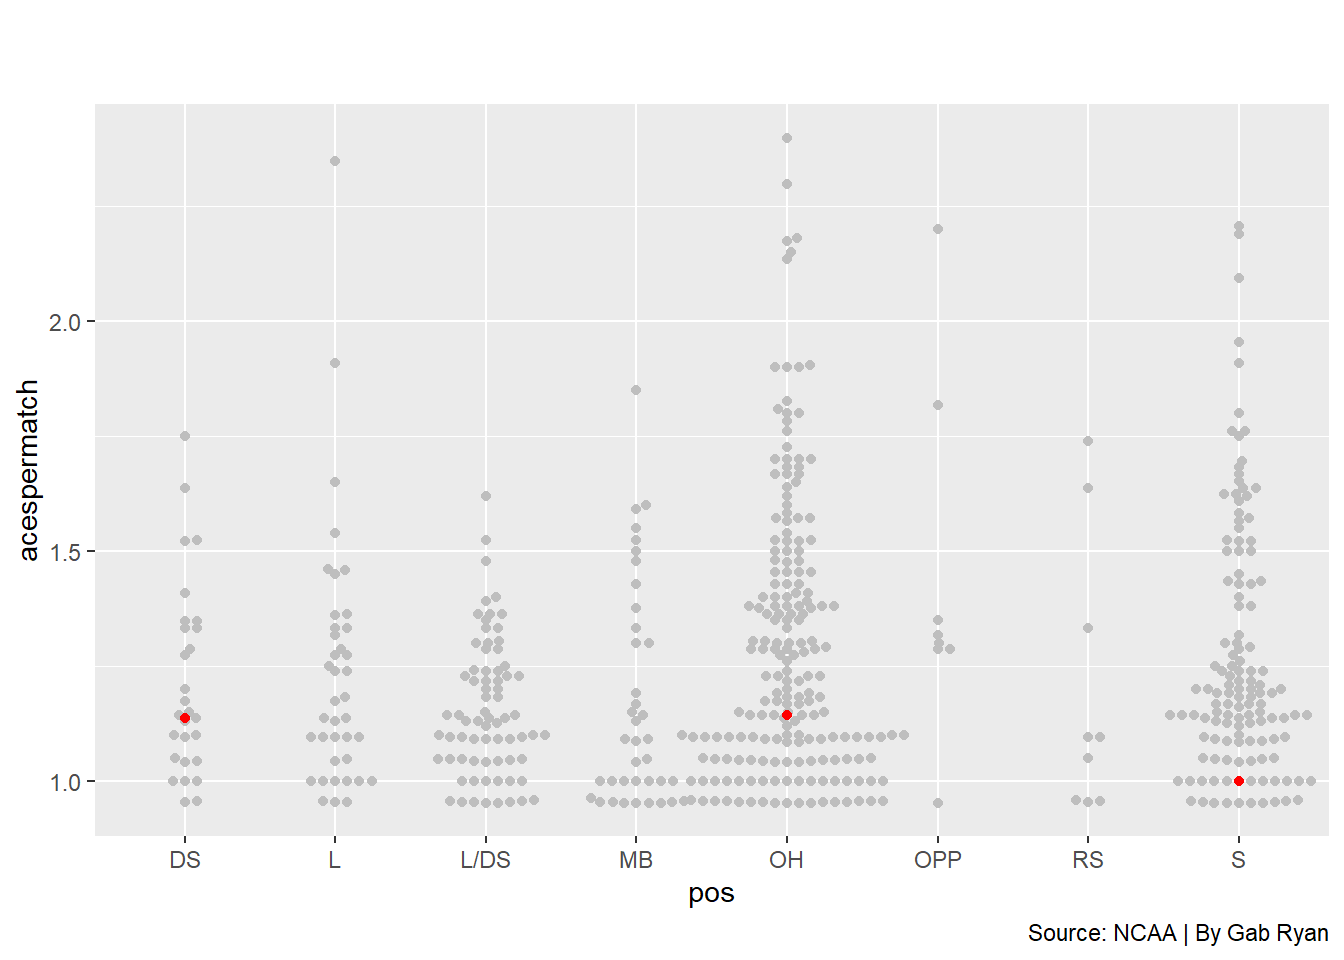
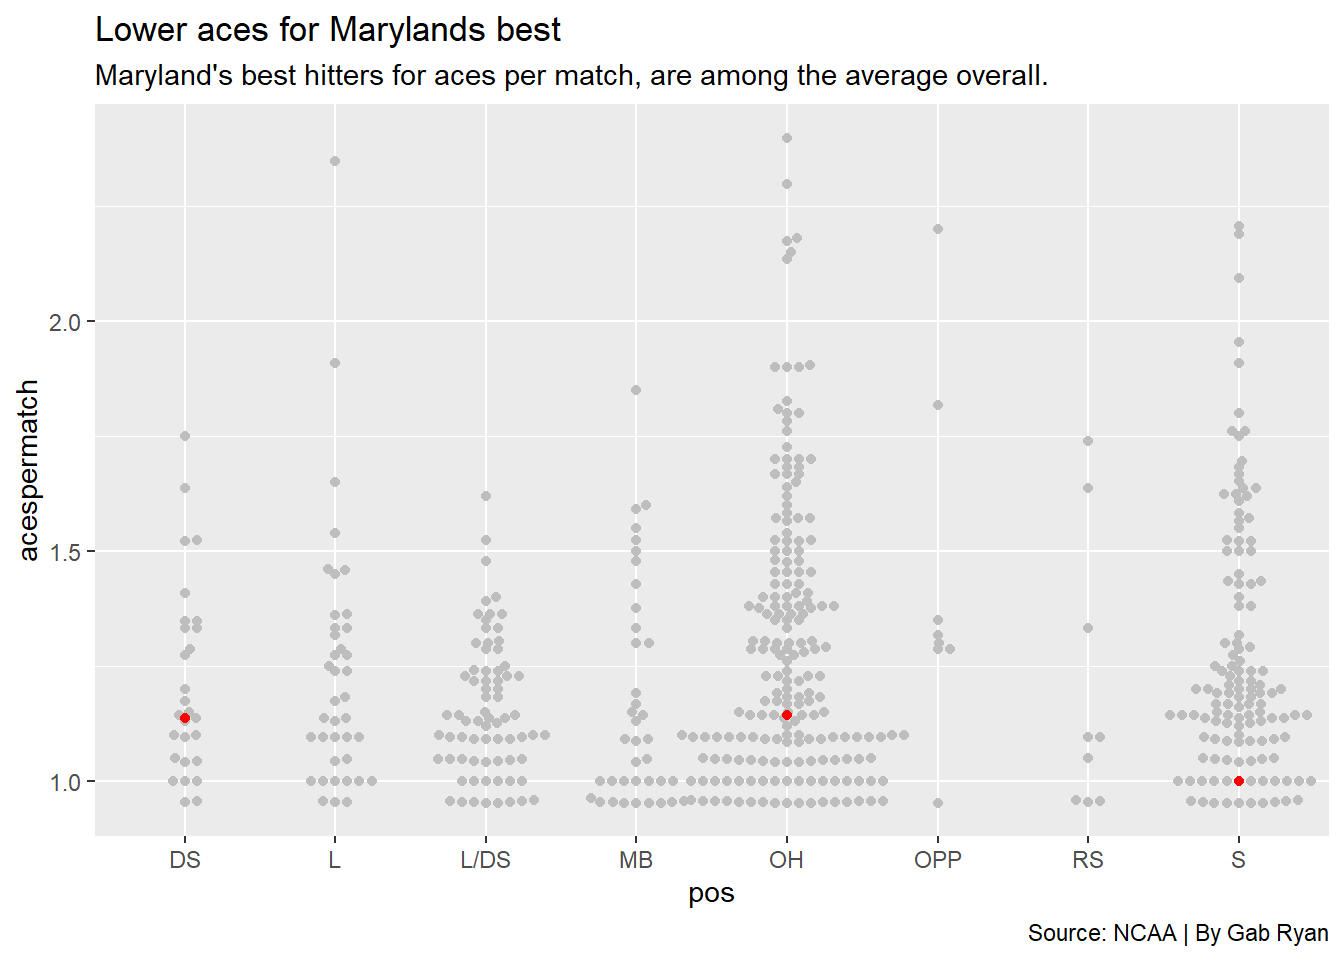
updates from in class assignment

Changed region(s): [[0.0625, 0.0, 0.7812, 0.0938]]

diff --git a/docs/index.html b/docs/index.html
@@ -157,7 +157,7 @@ ul.task-list li input[type="checkbox"] {
 <!-- margin-sidebar -->
     <div id="quarto-margin-sidebar" class="sidebar margin-sidebar">
         
-    <h5 class="quarto-listing-category-title">Categories</h5><div class="quarto-listing-category category-default"><div class="category" data-category="">All <span class="quarto-category-count">(8)</span></div><div class="category" data-category="analysis">analysis <span class="quarto-category-count">(1)</span></div><div class="category" data-category="code">code <span class="quarto-category-count">(1)</span></div><div class="category" data-category="news">news <span class="quarto-category-count">(2)</span></div></div></div>
+    <h5 class="quarto-listing-category-title">Categories</h5><div class="quarto-listing-category category-default"><div class="category" data-category="">All <span class="quarto-category-count">(7)</span></div><div class="category" data-category="analysis">analysis <span class="quarto-category-count">(1)</span></div><div class="category" data-category="code">code <span class="quarto-category-count">(1)</span></div><div class="category" data-category="news">news <span class="quarto-category-count">(2)</span></div></div></div>
 <!-- main -->
 <main class="content quarto-banner-title-block column-page-left" id="quarto-document-content">
 
@@ -170,9 +170,9 @@ ul.task-list li input[type="checkbox"] {
 
 <div class="quarto-listing quarto-listing-container-default" id="listing-listing">
 <div class="list quarto-listing-default">
-<div class="quarto-post image-right" data-index="0" data-listing-file-modified-sort="1698350565093" data-listing-reading-time-sort="1">
+<div class="quarto-post image-right" data-index="0" data-listing-date-sort="1698292800000" data-listing-file-modified-sort="1698372933726" data-listing-date-modified-sort="NaN" data-listing-reading-time-sort="2">
 <div class="thumbnail">
-<p><a href="./posts/volleyball-aces/index.html"> <!-- img(9CEB782EFEE6)[progressive=false, height=]:posts/volleyball-aces/index.html --> </a></p>
+<p><a href="./posts/volleyball-aces/index.html"> <p class="card-img-top"><img src="posts\volleyball-aces\index_files\figure-html\unnamed-chunk-6-1.png"  class="thumbnail-image card-img"/></p> </a></p>
 </div>
 <div class="body">
 <a href="./posts/volleyball-aces/index.html">
@@ -183,28 +183,7 @@ Volleyball aces per match
 
 </div>
 <div class="listing-description">
-<!-- desc(5A0113B34292)[max=175]:posts/volleyball-aces/index.html -->
-</div>
-</a>
-</div>
-<div class="metadata">
-<a href="./posts/volleyball-aces/index.html"> </a>
-</div>
-</div>
-<div class="quarto-post image-right" data-index="1" data-listing-date-sort="1698292800000" data-listing-file-modified-sort="1698350084612" data-listing-date-modified-sort="NaN" data-listing-reading-time-sort="1">
-<div class="thumbnail">
-<p><a href="./posts/volleyball-aces/index.html"> <!-- img(9CEB782EFEE6)[progressive=false, height=]:posts/volleyball-aces/index.html --> </a></p>
-</div>
-<div class="body">
-<a href="./posts/volleyball-aces/index.html">
-<h3 class="no-anchor listing-title">
-Volleyball aces per match
-</h3>
-<div class="listing-subtitle">
-
-</div>
-<div class="listing-description">
-<!-- desc(5A0113B34292)[max=175]:posts/volleyball-aces/index.html -->
+These payers played more than 20 matches, and are in the 3rd quartile in the number of…
 </div>
 </a>
 </div>
@@ -219,9 +198,9 @@ Gab Ryan
 </a>
 </div>
 </div>
-<div class="quarto-post image-right" data-index="2" data-listing-date-sort="1698206400000" data-listing-file-modified-sort="1698345525085" data-listing-date-modified-sort="NaN" data-listing-reading-time-sort="2">
+<div class="quarto-post image-right" data-index="1" data-listing-date-sort="1698206400000" data-listing-file-modified-sort="1698345525085" data-listing-date-modified-sort="NaN" data-listing-reading-time-sort="2">
 <div class="thumbnail">
-<p><a href="./posts/md-football-ypp/index.html"> <!-- img(9CEB782EFEE6)[progressive=false, height=]:posts/md-football-ypp/index.html --> </a></p>
+<p><a href="./posts/md-football-ypp/index.html"> <p class="card-img-top"><img src="posts\md-football-ypp\index_files\figure-html\unnamed-chunk-6-1.png"  class="thumbnail-image card-img"/></p> </a></p>
 </div>
 <div class="body">
 <a href="./posts/md-football-ypp/index.html">
@@ -232,7 +211,7 @@ Maryland Football YPP Bubble Chart
 
 </div>
 <div class="listing-description">
-<!-- desc(5A0113B34292)[max=175]:posts/md-football-ypp/index.html -->
+Mutating the wins and losses into numerical values of 1’s and 0’s.
 </div>
 </a>
 </div>
@@ -247,9 +226,9 @@ Gab Ryan
 </a>
 </div>
 </div>
-<div class="quarto-post image-right" data-index="3" data-listing-date-sort="1697515200000" data-listing-file-modified-sort="1697686687445" data-listing-date-modified-sort="NaN" data-listing-reading-time-sort="2">
+<div class="quarto-post image-right" data-index="2" data-listing-date-sort="1697515200000" data-listing-file-modified-sort="1697686687445" data-listing-date-modified-sort="NaN" data-listing-reading-time-sort="2">
 <div class="thumbnail">
-<p><a href="./posts/third-and-sixth/index.html"> <!-- img(9CEB782EFEE6)[progressive=false, height=]:posts/third-and-sixth/index.html --> </a></p>
+<p><a href="./posts/third-and-sixth/index.html"> <div class="listing-item-img-placeholder card-img-top" >&nbsp;</div> </a></p>
 </div>
 <div class="body">
 <a href="./posts/third-and-sixth/index.html">
@@ -260,7 +239,7 @@ Third and Sixth Runs
 
 </div>
 <div class="listing-description">
-<!-- desc(5A0113B34292)[max=175]:posts/third-and-sixth/index.html -->
+Today we are
 </div>
 </a>
 </div>
@@ -275,9 +254,9 @@ Gab Ryan
 </a>
 </div>
 </div>
-<div class="quarto-post image-right" data-index="4" data-listing-date-sort="1696910400000" data-listing-file-modified-sort="1697136874196" data-listing-date-modified-sort="NaN" data-listing-reading-time-sort="2">
+<div class="quarto-post image-right" data-index="3" data-listing-date-sort="1696910400000" data-listing-file-modified-sort="1697136874196" data-listing-date-modified-sort="NaN" data-listing-reading-time-sort="2">
 <div class="thumbnail">
-<p><a href="./posts/big-ten-cfb-plays/index.html"> <!-- img(9CEB782EFEE6)[progressive=false, height=]:posts/big-ten-cfb-plays/index.html --> </a></p>
+<p><a href="./posts/big-ten-cfb-plays/index.html"> <p class="card-img-top"><img src="posts\big-ten-cfb-plays\index_files\figure-html\unnamed-chunk-5-1.png"  class="thumbnail-image card-img"/></p> </a></p>
 </div>
 <div class="body">
 <a href="./posts/big-ten-cfb-plays/index.html">
@@ -288,7 +267,7 @@ Big Ten Plays
 
 </div>
 <div class="listing-description">
-<!-- desc(5A0113B34292)[max=175]:posts/big-ten-cfb-plays/index.html -->
+Today we are creating a bar chart to show the average number of offensive plays for each Big Ten football team from the 2022-23 season and the current season.
 </div>
 </a>
 </div>
@@ -303,9 +282,9 @@ Gab Ryan
 </a>
 </div>
 </div>
-<div class="quarto-post image-right" data-index="5" data-listing-date-sort="1696478400000" data-listing-file-modified-sort="1696535055345" data-listing-date-modified-sort="NaN" data-listing-reading-time-sort="1">
+<div class="quarto-post image-right" data-index="4" data-listing-date-sort="1696478400000" data-listing-file-modified-sort="1696535055345" data-listing-date-modified-sort="NaN" data-listing-reading-time-sort="1">
 <div class="thumbnail">
-<p><a href="./posts/hello-world/index.html"> <!-- img(9CEB782EFEE6)[progressive=false, height=]:posts/hello-world/index.html --> </a></p>
+<p><a href="./posts/hello-world/index.html"> <p class="card-img-top"><img src="posts\hello-world\index_files\figure-html\unnamed-chunk-5-1.png"  class="thumbnail-image card-img"/></p> </a></p>
 </div>
 <div class="body">
 <a href="./posts/hello-world/index.html">
@@ -316,7 +295,7 @@ Hello World!
 
 </div>
 <div class="listing-description">
-<!-- desc(5A0113B34292)[max=175]:posts/hello-world/index.html -->
+Welcome to this blog! Today we learned how to create this fun blog.
 </div>
 </a>
 </div>
@@ -331,7 +310,7 @@ Gab Ryan
 </a>
 </div>
 </div>
-<div class="quarto-post image-right" data-index="6" data-categories="news,code,analysis" data-listing-date-sort="1696478400000" data-listing-file-modified-sort="1696529732474" data-listing-date-modified-sort="NaN" data-listing-reading-time-sort="1">
+<div class="quarto-post image-right" data-index="5" data-categories="news,code,analysis" data-listing-date-sort="1696478400000" data-listing-file-modified-sort="1696529732474" data-listing-date-modified-sort="NaN" data-listing-reading-time-sort="1">
 <div class="thumbnail">
 <p><a href="./posts/post-with-code/index.html"> <img src="./posts/post-with-code/image.jpg" class="thumbnail-image"> </a></p>
 </div>
@@ -357,7 +336,7 @@ analysis
 </div>
 <a href="./posts/post-with-code/index.html">
 <div class="listing-description">
-<!-- desc(5A0113B34292)[max=175]:posts/post-with-code/index.html -->
+This is a post with executable code.
 </div>
 </a>
 </div>
@@ -372,9 +351,9 @@ Harlow Malloc
 </a>
 </div>
 </div>
-<div class="quarto-post image-right" data-index="7" data-categories="news" data-listing-date-sort="1696219200000" data-listing-file-modified-sort="1696529732474" data-listing-date-modified-sort="NaN" data-listing-reading-time-sort="1">
+<div class="quarto-post image-right" data-index="6" data-categories="news" data-listing-date-sort="1696219200000" data-listing-file-modified-sort="1696529732474" data-listing-date-modified-sort="NaN" data-listing-reading-time-sort="1">
 <div class="thumbnail">
-<p><a href="./posts/welcome/index.html"> <!-- img(9CEB782EFEE6)[progressive=false, height=]:posts/welcome/index.html --> </a></p>
+<p><a href="./posts/welcome/index.html"> <p class="card-img-top"><img src="posts\welcome\thumbnail.jpg"  class="thumbnail-image card-img"/></p> </a></p>
 </div>
 <div class="body">
 <a href="./posts/welcome/index.html">
@@ -392,7 +371,7 @@ news
 </div>
 <a href="./posts/welcome/index.html">
 <div class="listing-description">
-<!-- desc(5A0113B34292)[max=175]:posts/welcome/index.html -->
+This is the first post in a Quarto blog. Welcome!
 </div>
 </a>
 </div>

diff --git a/docs/posts/volleyball-aces/index.html b/docs/posts/volleyball-aces/index.html
@@ -271,7 +271,7 @@ lgl  (2): ms, total_blocks
 <span id="cb12-7"><a href="#cb12-7" aria-hidden="true" tabindex="-1"></a>    <span class="at">data=</span>umd, </span>
 <span id="cb12-8"><a href="#cb12-8" aria-hidden="true" tabindex="-1"></a>    <span class="at">groupOnX=</span><span class="cn">TRUE</span>, </span>
 <span id="cb12-9"><a href="#cb12-9" aria-hidden="true" tabindex="-1"></a>    <span class="fu">aes</span>(<span class="at">x=</span>pos, <span class="at">y=</span>acespermatch), <span class="at">color=</span><span class="st">"red"</span>) <span class="sc">+</span></span>
-<span id="cb12-10"><a href="#cb12-10" aria-hidden="true" tabindex="-1"></a>  <span class="fu">labs</span>(<span class="at">title=</span><span class="st">""</span>, <span class="at">subtitle=</span><span class="st">""</span>, <span class="at">caption=</span><span class="st">"Source: NCAA | By Gab Ryan"</span>) </span></code><button title="Copy to Clipboard" class="code-copy-button"><i class="bi"></i></button></pre></div>
+<span id="cb12-10"><a href="#cb12-10" aria-hidden="true" tabindex="-1"></a>  <span class="fu">labs</span>(<span class="at">title=</span><span class="st">"Lower aces for Marylands best"</span>, <span class="at">subtitle=</span><span class="st">"Maryland's best hitters for aces per match, are among the average overall."</span>, <span class="at">caption=</span><span class="st">"Source: NCAA | By Gab Ryan"</span>) </span></code><button title="Copy to Clipboard" class="code-copy-button"><i class="bi"></i></button></pre></div>
 </details>
 <div class="cell-output cell-output-stderr">
 <pre><code>Warning: The `groupOnX` argument of `geom_beeswarm()` is deprecated as of ggbeeswarm
@@ -282,7 +282,8 @@ lgl  (2): ms, total_blocks
 <p><img src="index_files/figure-html/unnamed-chunk-8-1.png" class="img-fluid" width="672"></p>
 </div>
 </div>
-<p>These payers played more than 20 matches, and are in the 3rd quartile in the number of aces per match.</p>
+<p>These payers played more than 20 matches, and are in the 3rd quartile in the number of aces per match. This means that though they have played many games with opportunity for many aces, these Maryland players are among the average to lower over all of aces per match.</p>
+<p>We expect this result from outside hitters as the teams primary attacker, but the unusual position highlighted here is the defensive specialist. This position supports the team defensively, rather than offensively (the players where these one hit shots would be placed with).</p>
 
 
 
